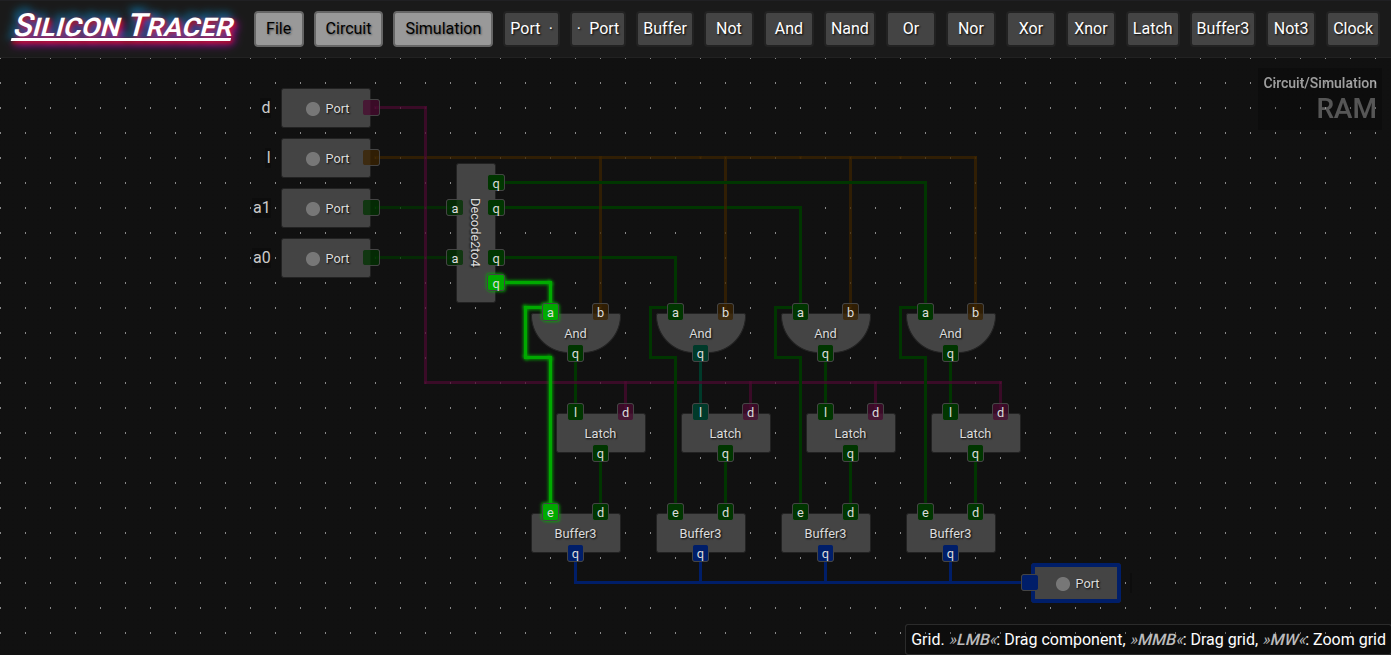
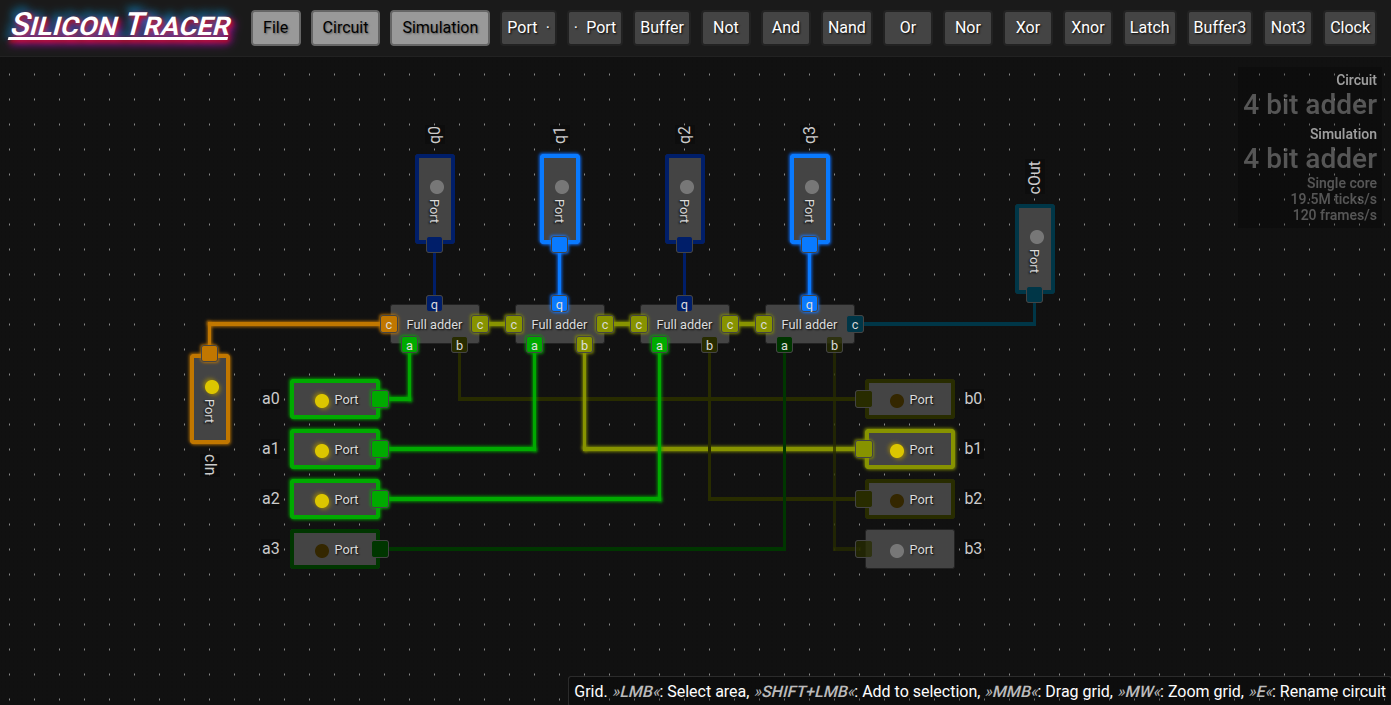
update readme, misc minor refactoring

Changed region(s): [[0.1237, 0.1221, 1.0, 1.0], [0.0, 0.0, 1.0, 0.3359], [0.711, 0.2443, 0.7728, 0.4275]]

diff --git a/logic/sim/simulation.js b/logic/sim/simulation.js
@@ -200,7 +200,7 @@ class Simulation {
         for (const [ netIndex, net ] of this.#nets.entries()) {
             for (const name of net.io) {
                 if (this.#getIO(name).in) {
-                    result += this.#compileNetToInput(name, netIndex) + this.#endl('shift input, set port ' + name + ' from net ' + netIndex);
+                    result += this.#compileNetToInput(name, netIndex) + this.#endl('tick and set ' + name + ' from net ' + netIndex);
                 }
             }
         }
@@ -218,7 +218,7 @@ class Simulation {
             let resetNet = true;
             for (const name of net.io ) {
                 if (this.#getIO(name).out) {
-                    result += this.#compileOutputToNet(netIndex, name, resetNet) + this.#endl((resetNet ? 're' : '') + 'set net ' + netIndex + ' from port ' + name);
+                    result += this.#compileOutputToNet(netIndex, name, resetNet) + this.#endl((resetNet ? 're' : '') + 'set net ' + netIndex + ' from ' + name);
                     resetNet = false;
                 }
             }

diff --git a/readme.md b/readme.md
@@ -1,42 +1,41 @@
 # Silicon Tracer
 
-This is a logic circuit simulator intended to eventually be useful for designing circuits with discrete logic components (e.g. 74 series chips)
-for hobby projects. It compiles circuits to fully branchless code operating on a typed array. The simulation includes gate delays and should
-hopefully be able to run at up to MHz frequencies.
-It is planned to have an EDA software export with the ability to automatically group individual gates to appropriate and ideally minimal
-74x-chip-equivalents during export.
+This is a logic circuit simulator intended to eventually be useful for designing circuits with discrete logic components (e.g. 74 series chips) for hobby projects. It compiles circuits to fully branchless code operating on a typed array. The simulation includes gate delays and can already run simple circuits at Mhz frequencies.
+It is planned to have an EDA software export with the ability to automatically group individual gates to appropriate and ideally minimal 74x-chip-equivalents during export.
 
 It is usable offline (open index.html in a browser) or [online](https://sinesc.github.io/silicon-tracer/).
 
 ## Project status
 
-Very early days. Successfully simulates but UI not yet practically useful and simulation speed tied to frame rate. Cheesy neon colors non-optional.
+Very early days. Successfully simulates but UI not yet practically useful and simulation limited to single cpu core and capped to 25M ticks/s. Cheesy neon colors non-optional.
 
 ## Screenshot
 
-![Early UI showing an edge triggered d-flipflop](https://sinesc.github.io/silicon-tracer/doc/neon.png)
+![Early UI showing a 4 bit adder](https://sinesc.github.io/silicon-tracer/doc/neon.png)
 
- This example shows a 4 bit RAM circuit.
+This example shows a 4 bit adder. It simulates at around 19M ticks/second on an AMD Ryzen 7 7800X3D.
 
 ## Simulation internals
 
 The engine generates branchless javascript code that performs logic operations on a typed array. The array contains the state of the ciruit's nets as well as gate inputs and outputs. State is represented by two bits of a byte, one to indicate whether there is a signal at all (tri-state components) and one bit for the actual signal value. Each simulation tick the bits are shifted down and only propagate through the gate once they are in their respective least significant position. This simulates gate delay.
 
-The code below was generated for an AND-gate connected to two inputs and one output. It is not yet optimized and the lines commented with 'tick' and 'reset' will eventually be optimized into the respective first input/output operation for the connected net.
+The code below was generated for the 2 NAND gate **RS flip-flop** in the `basics.stc` example file.
 
 ```js
-// alloc mem[6]
-// temporary result, signal, mask
-mem[0] >>= 1; // tick a:c2202f:0
-mem[1] >>= 1; // tick b:c2202f:0
-mem[2] >>= 1; // tick q:c2202f:0
-mem[0] = (mem[0] & 0b11011101) | (mem[4] << 1); // set port a:c2202f:0 from net 1
-mem[1] = (mem[1] & 0b11011101) | (mem[5] << 1); // set port b:c2202f:0 from net 2
-result = (0b00010000) | (mem[0] & mem[1]); mem[2] = (mem[2] & 0b11011101) | (result << 1); // compute a:c2202f:0 & b:c2202f:0
-mem[3] = 0; // reset net 0
-signal = (mem[2] & 0b00100000) >> 5; mask = ~(signal | (signal << 4)); mem[3] = (mem[3] & mask) | (mem[2] & ~mask); // set net 0 from port q:c2202f:0
-// port Q @ mem[3]
-// port A @ mem[4]
-// port B @ mem[5]
+// alloc mem[10]
+let mask, signal, result;
+mem[2] >>= 1; // tick q:2d43a1:0
+mem[5] >>= 1; // tick q:5d4c93:0
+mem[0] = ((mem[0] >> 1) & 0b11011101) | (mem[6] << 1); // tick and set a:2d43a1:0 from net 0
+mem[3] = ((mem[3] >> 1) & 0b11011101) | (mem[7] << 1); // tick and set a:5d4c93:0 from net 1
+mem[1] = ((mem[1] >> 1) & 0b11011101) | (mem[8] << 1); // tick and set b:2d43a1:0 from net 2
+mem[4] = ((mem[4] >> 1) & 0b11011101) | (mem[9] << 1); // tick and set b:5d4c93:0 from net 3
+result = (0b00010000) | (!(1 & (mem[0] & mem[1]))); mem[2] = (mem[2] & 0b11011101) | (result << 1); // compute !(1 & (a:2d43a1:0 & b:2d43a1:0))
+result = (0b00010000) | (!(1 & (mem[3] & mem[4]))); mem[5] = (mem[5] & 0b11011101) | (result << 1); // compute !(1 & (a:5d4c93:0 & b:5d4c93:0))
+signal = (mem[5] & 0b00100000) >> 5; mask = signal | (signal << 4); mem[6] = (mem[5] & mask); // reset net 0 from q:5d4c93:0
+signal = (mem[2] & 0b00100000) >> 5; mask = signal | (signal << 4); mem[9] = (mem[2] & mask); // reset net 3 from q:2d43a1:0
+// port #reset @ mem[7]
+// port #set @ mem[8]
+// port q @ mem[9]
 ```
 
